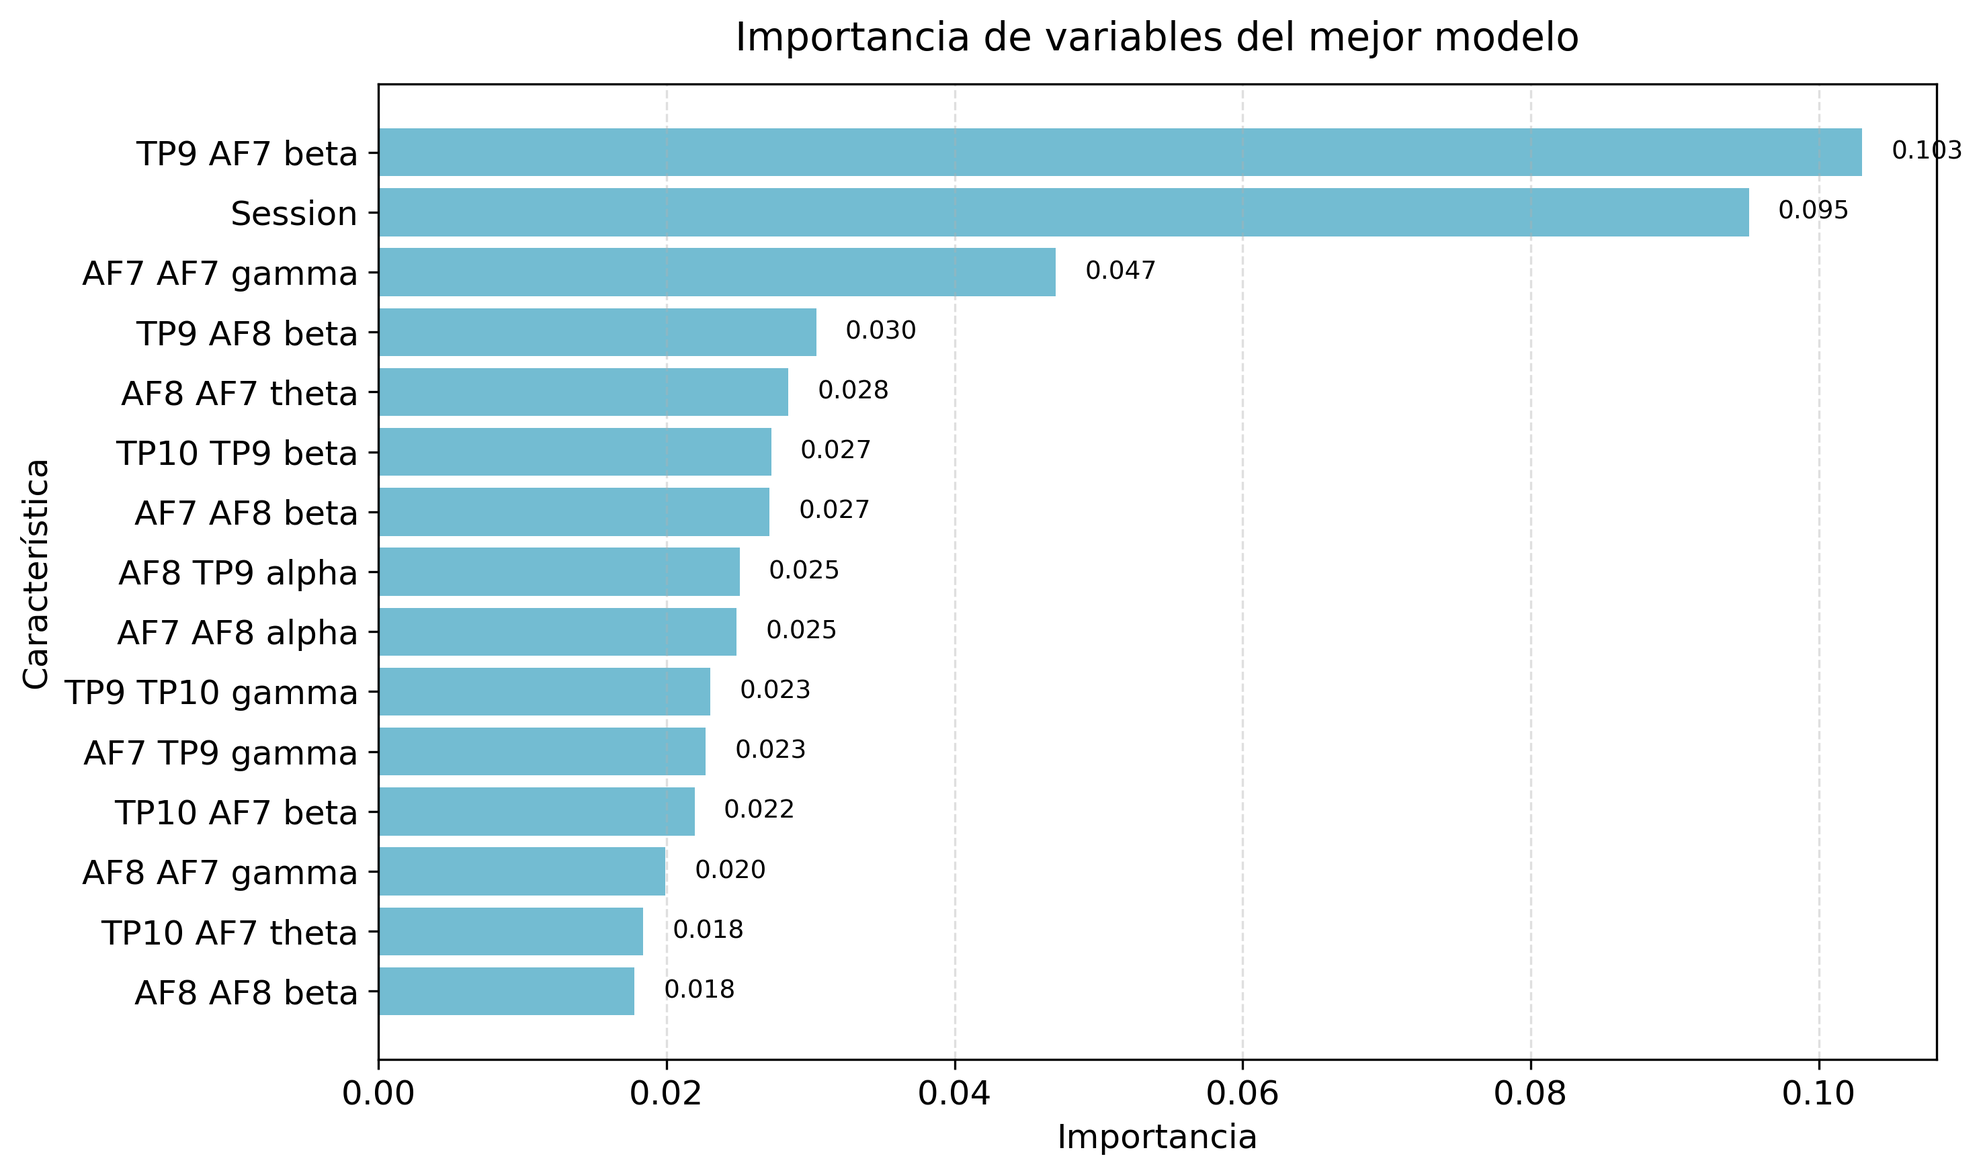
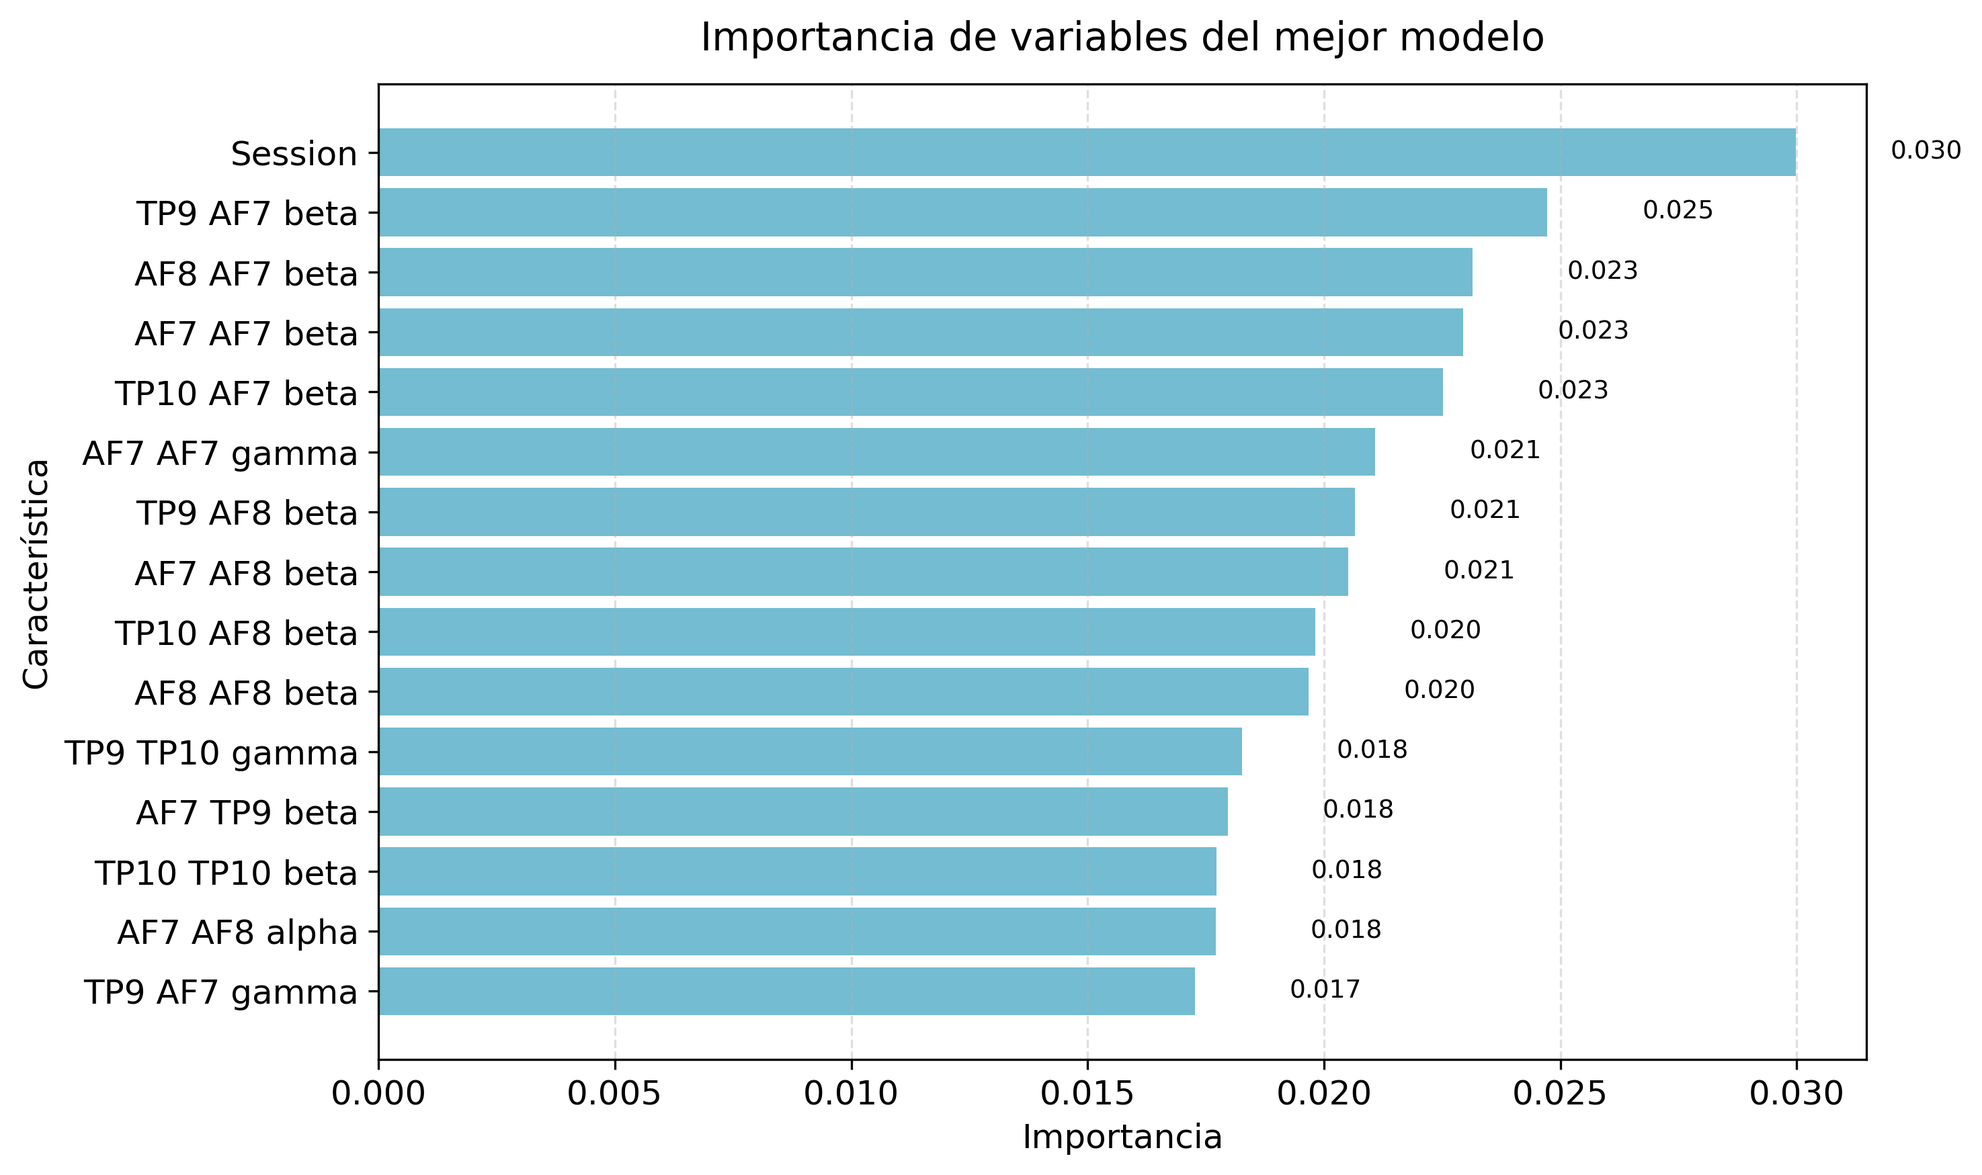
C6 final: integración de resultados de C3 (optimización), actualización de visualizaciones y reporte LaTeX

diff --git a/src/visualization/viz.py b/src/visualization/viz.py
@@ -502,11 +502,26 @@ def save_metrics_table(metrics_df: pd.DataFrame, output_csv: Path):
     metrics_df.to_csv(output_csv, index=False)
 
 
-def write_latex_report(paths: dict, metrics_df: pd.DataFrame):
+def write_latex_report(paths: dict, metrics_df: pd.DataFrame, opt_metrics_df: pd.DataFrame = None):
     """Escribe un reporte LaTeX base"""
     tex_path = paths["base"] / "final_report.tex"
 
     latex_table = metrics_df.to_latex(index=False, float_format="%.3f", escape=True)
+    
+    if opt_metrics_df is not None:
+        opt_metrics_df = opt_metrics_df.copy()
+
+        opt_metrics_df.columns = [
+        col.replace("%", "\\%") for col in opt_metrics_df.columns
+            ]
+
+        latex_opt_table = opt_metrics_df.to_latex(
+            index=False,
+            float_format="%.3f",
+            escape=False  # 👈 importante
+        )
+    else:
+        latex_opt_table = "No disponible"
 
     content = f"""
 \\documentclass[12pt]{{article}}
@@ -584,11 +599,16 @@ Finalmente, en el módulo de visualización e integración (C6), se generaron fi
 En este proyecto, la comparación final se realizó entre los modelos de aprendizaje automático implementados en C4. Los módulos C2 y C5 no fueron incluidos en la tabla comparativa final debido a que, de acuerdo con la naturaleza del problema y las reglas de composición del framework para equipos de este tamaño, C2 no resultó aplicable y C5 fue omitido justificadamente.
 
 \\section{{Resultados del análisis exploratorio (C1)}}
+
+La figura 1 despliega el número de características de sincronía EEG que son significativas en cada sesión, esto en la comparativa entre lectura compartida e individual. De esta forma, podemos observar que la díada 12 exhibe el mayor número de características estadísticamente significativas (51), mientras que la díada 14 tiene la menor cantidad (1). Esto se puede relacionar con la variabilidad inter-sujeto inherente a las señales de EEG, por la cual existen diferencias en el comportamiento observado entre distintas díadas.
+
 \\begin{{figure}}[H]
     \\centering
     \\includegraphics[width=0.8\\textwidth]{{figures/eda/significant_features_by_session.png}}
     \\caption{{Número de características de sincronía EEG estadísticamente significativas por sesión.}}
 \\end{{figure}}
+
+La figura 2 nos brinda una vista general al tamaño de efecto absoluto de las principales características identificadas. Esto nos permite observar que las mayores diferencias entre lectura compartida e individual ocurren: (1) en la banda beta y (2) principalmente en combinaciones de electrodos frontales y lateralizados a la derecha.
 
 \\begin{{figure}}[H]
     \\centering
@@ -596,17 +616,23 @@ En este proyecto, la comparación final se realizó entre los modelos de aprendi
     \\caption{{Principales características EEG ordenadas por magnitud del tamaño de efecto absoluto (Delta de Cliff).}}
 \\end{{figure}}
 
+La figura 3 muestra los valores normalizados de sincronía promedio para cada uno de los estados. Como se puede apreciar, los estados de reposo y lectura individual parecieran mostrar una mayor sincronía que la lectura compartida. Esto se puede deber a dos razones: datos de referencia ruidosos y posibles outliers (casos en los que la sincronía es extrañamente alta en reposo o lectura individual, por ejemplo).
+
 \\begin{{figure}}[H]
     \\centering
     \\includegraphics[width=0.8\\textwidth]{{figures/eda/condition_means.png}}
     \\caption{{Sincronía promedio EEG por condición experimental (línea base, lectura compartida y lectura individual) y por métrica.}}
 \\end{{figure}}
 
+La figura 4 muestra gráficos de caja y bigote de las 3 características más estadísticamente significativas. Aquí una vez más podemos observar que la sincronía en estado de lectura individual es más alta que en lectura compartida.
+
 \\begin{{figure}}[H]
     \\centering
     \\includegraphics[width=0.95\\textwidth]{{figures/eda/boxplot_significant_features.png}}
     \\caption{{Diagramas de caja de las características de sincronía EEG más significativas, comparando lectura compartida e individual.}}
 \\end{{figure}}
+
+La figura 5 despliega un mapa de calor de las correlaciones entre las características EEG con la mayor varianza. Esto nos permite observar que las características de banda frecuencial beta en todas las combinaciones de electrodos se encuentran altamente correlacionadas entre sí; algo similar ocurre para las combinaciones de banda frecuencial gamma que entraron en el grupo observado. Por lo contrario, características de beta se encuentran levemente correlacionadas con aquellas de gamma (y viceversa). Esto tiene sentido al ser que ambas bandas, a pesar de ser distintas entre sí se encuentran contiguas en el espectro, con lo que es posible que tengan cierto nivel de influencia mutua.
 
 \\begin{{figure}}[H]
     \\centering
@@ -615,11 +641,22 @@ En este proyecto, la comparación final se realizó entre los modelos de aprendi
 \\end{{figure}}
 
 \\section{{Resultados de aprendizaje automático (C4)}}
+
+La Figura 6 muestra la comparación del desempeño de 3 algoritmos de aprendizaje automático: Gradient Boosting, Random Forest y Support Vector Machine (SVM) en la tarea de clasificación del tipo de lectura (individual vs compartida), utilizando como métricas la exactitud (accuracy) y el F1 score macro. 
+
+Se puede observar que el modelo  Random Forest presenta el mejor desempeño global, alcanzando valores de 0.70 tanto en exactitud como en F1 macro, seguido muy de cerca por Gradient Boosting con 0.68 en ambas métricas. Por otro lado, SVM muestra un desempeño ligeramente inferior con valores de 0.64
+
+La similitud entre accuracy y F1 macro en todos los modelos sugiere un balance entre clases, lo cual es relevante dada la naturaleza del estudio. En conjunto, estos resultados indican que los modelos basados en árboles, particularmente Random Forest, captan de manera más efectiva los patrones derivados de las características EEG en comparación con SVM.
+
 \\begin{{figure}}[H]
     \\centering
     \\includegraphics[width=0.8\\textwidth]{{figures/models/model_comparison.png}}
     \\caption{{Comparación del desempeño de los modelos utilizando exactitud y F1 macro.}}
 \\end{{figure}}
+
+La Figura 7 muestra la importancia relativa de las variables extraídas del EEG en el modelo con mejor desempeño (Gradient Boosting). Las características corresponden a combinaciones de canales (por ejemplo, AF7, TP9, etc) y bandas de frecuencia (alpha, beta, gamma y theta), así como a la variable de sesión experimental. 
+
+Se identifica que la característica más relevante es la actividad beta entre los canales TP9 Y AF7. Así mismo, destacan interacciones en la banda gamma (AF7-AF7) y la banda beta  (TP9-AF8), lo que podría reflejar procesos cognitivos asociados a la lectura como la atención o el procesamiento lingüístico. 
 
 \\begin{{figure}}[H]
     \\centering
@@ -628,6 +665,22 @@ En este proyecto, la comparación final se realizó entre los modelos de aprendi
 \\end{{figure}}
 
 \\section{{Resultados de optimización (C3)}}
+
+La Figura muestra la evolución del error durante el proceso de optimización de hiperparámetros. Se observa una disminución progresiva del error, indicando la convergencia del algoritmo hacia una mejor configuración del modelo.
+
+\\begin{{figure}}[H]
+    \\centering
+    \\includegraphics[width=0.8\\textwidth]{{figures/optimization/curva_mejora.png}}
+    \\caption{{Curva de convergencia del proceso de optimización de hiperparámetros.}}
+\\end{{figure}}
+
+Adicionalmente, la Tabla presenta el desempeño final del modelo optimizado.
+
+\\begin{{table}}[H]
+\\centering
+\\caption{{Resultados del modelo optimizado}}
+{latex_opt_table}
+\\end{{table}}
 
 \\section{{Tabla comparativa de modelos}}
 \\begin{{table}}[H]
@@ -638,7 +691,11 @@ En este proyecto, la comparación final se realizó entre los modelos de aprendi
 
 \\section{{Conclusiones}}
 
-Texto
+En este proyecto se desarrolló un pipeline integral para el análisis de sincronía cerebral a partir de señales EEG, abarcando desde el procesamiento de datos hasta la generación de modelos predictivos y visualizaciones interpretables. Los resultados obtenidos muestran que las características de sincronía permiten distinguir entre condiciones de lectura individual y compartida, evidenciando su potencial como indicadores de actividad cognitiva.
+
+Asimismo, la comparación entre modelos de aprendizaje automático evidenció que el modelo Random Forest presenta el mejor desempeño global, superando ligeramente a Gradient Boosting y mostrando una mayor capacidad para capturar los patrones presentes en los datos en términos de exactitud y F1-score.
+
+Adicionalmente, la etapa de optimización de hiperparámetros permitió refinar el desempeño del modelo seleccionado mediante la exploración sistemática del espacio de parámetros. La curva de convergencia evidenció una disminución progresiva del error, indicando que el algoritmo logró acercarse a una configuración estable. Sin embargo, la evaluación final mostró que la mejora en desempeño fue marginal, lo cual sugiere que el modelo base ya se encontraba cercano a un óptimo local.
 
 \\end{{document}}
 """
@@ -656,6 +713,19 @@ def generate_report():
 
     metrics = load_pickle("src/C4/outputs/all_metrics.pkl")
     best_model = load_pickle("src/C4/outputs/best_model.pkl")
+
+    c3_fig_path = Path("src/C3/outputs/curva_mejora.png")
+    c3_table_path = Path("src/C3/outputs/final_optimization_metrics.csv")
+
+    if c3_fig_path.exists():
+        import shutil
+        dest = paths["optimization"] / "curva_mejora.png"
+        shutil.copy(c3_fig_path, dest)
+
+    if c3_table_path.exists():
+        opt_metrics_df = pd.read_csv(c3_table_path)
+    else:
+        opt_metrics_df = None
 
     assert isinstance(eda_df, pd.DataFrame), "eda_report.pkl debe ser DataFrame"
     assert isinstance(feat_df, pd.DataFrame), "feat_mat.pkl debe ser DataFrame"
@@ -705,7 +775,8 @@ def generate_report():
         paths["base"] / "model_comparison.csv"
     )
 
-    write_latex_report(paths, metrics_df)
+    
+    write_latex_report(paths, metrics_df, opt_metrics_df)
 
     print("C6 ejecutado correctamente.")
     print(f"Reporte LaTeX: {paths['base'] / 'final_report.tex'}")

diff --git a/reports/final_report.tex b/reports/final_report.tex
@@ -74,11 +74,16 @@ Finalmente, en el módulo de visualización e integración (C6), se generaron fi
 En este proyecto, la comparación final se realizó entre los modelos de aprendizaje automático implementados en C4. Los módulos C2 y C5 no fueron incluidos en la tabla comparativa final debido a que, de acuerdo con la naturaleza del problema y las reglas de composición del framework para equipos de este tamaño, C2 no resultó aplicable y C5 fue omitido justificadamente.
 
 \section{Resultados del análisis exploratorio (C1)}
+
+La figura 1 despliega el número de características de sincronía EEG que son significativas en cada sesión, esto en la comparativa entre lectura compartida e individual. De esta forma, podemos observar que la díada 12 exhibe el mayor número de características estadísticamente significativas (51), mientras que la díada 14 tiene la menor cantidad (1). Esto se puede relacionar con la variabilidad inter-sujeto inherente a las señales de EEG, por la cual existen diferencias en el comportamiento observado entre distintas díadas.
+
 \begin{figure}[H]
     \centering
     \includegraphics[width=0.8\textwidth]{figures/eda/significant_features_by_session.png}
     \caption{Número de características de sincronía EEG estadísticamente significativas por sesión.}
 \end{figure}
+
+La figura 2 nos brinda una vista general al tamaño de efecto absoluto de las principales características identificadas. Esto nos permite observar que las mayores diferencias entre lectura compartida e individual ocurren: (1) en la banda beta y (2) principalmente en combinaciones de electrodos frontales y lateralizados a la derecha.
 
 \begin{figure}[H]
     \centering
@@ -86,17 +91,23 @@ En este proyecto, la comparación final se realizó entre los modelos de aprendi
     \caption{Principales características EEG ordenadas por magnitud del tamaño de efecto absoluto (Delta de Cliff).}
 \end{figure}
 
+La figura 3 muestra los valores normalizados de sincronía promedio para cada uno de los estados. Como se puede apreciar, los estados de reposo y lectura individual parecieran mostrar una mayor sincronía que la lectura compartida. Esto se puede deber a dos razones: datos de referencia ruidosos y posibles outliers (casos en los que la sincronía es extrañamente alta en reposo o lectura individual, por ejemplo).
+
 \begin{figure}[H]
     \centering
     \includegraphics[width=0.8\textwidth]{figures/eda/condition_means.png}
     \caption{Sincronía promedio EEG por condición experimental (línea base, lectura compartida y lectura individual) y por métrica.}
 \end{figure}
 
+La figura 4 muestra gráficos de caja y bigote de las 3 características más estadísticamente significativas. Aquí una vez más podemos observar que la sincronía en estado de lectura individual es más alta que en lectura compartida.
+
 \begin{figure}[H]
     \centering
     \includegraphics[width=0.95\textwidth]{figures/eda/boxplot_significant_features.png}
     \caption{Diagramas de caja de las características de sincronía EEG más significativas, comparando lectura compartida e individual.}
 \end{figure}
+
+La figura 5 despliega un mapa de calor de las correlaciones entre las características EEG con la mayor varianza. Esto nos permite observar que las características de banda frecuencial beta en todas las combinaciones de electrodos se encuentran altamente correlacionadas entre sí; algo similar ocurre para las combinaciones de banda frecuencial gamma que entraron en el grupo observado. Por lo contrario, características de beta se encuentran levemente correlacionadas con aquellas de gamma (y viceversa). Esto tiene sentido al ser que ambas bandas, a pesar de ser distintas entre sí se encuentran contiguas en el espectro, con lo que es posible que tengan cierto nivel de influencia mutua.
 
 \begin{figure}[H]
     \centering
@@ -105,11 +116,22 @@ En este proyecto, la comparación final se realizó entre los modelos de aprendi
 \end{figure}
 
 \section{Resultados de aprendizaje automático (C4)}
+
+La Figura 6 muestra la comparación del desempeño de 3 algoritmos de aprendizaje automático: Gradient Boosting, Random Forest y Support Vector Machine (SVM) en la tarea de clasificación del tipo de lectura (individual vs compartida), utilizando como métricas la exactitud (accuracy) y el F1 score macro. 
+
+Se puede observar que el modelo  Random Forest presenta el mejor desempeño global, alcanzando valores de 0.70 tanto en exactitud como en F1 macro, seguido muy de cerca por Gradient Boosting con 0.68 en ambas métricas. Por otro lado, SVM muestra un desempeño ligeramente inferior con valores de 0.64
+
+La similitud entre accuracy y F1 macro en todos los modelos sugiere un balance entre clases, lo cual es relevante dada la naturaleza del estudio. En conjunto, estos resultados indican que los modelos basados en árboles, particularmente Random Forest, captan de manera más efectiva los patrones derivados de las características EEG en comparación con SVM.
+
 \begin{figure}[H]
     \centering
     \includegraphics[width=0.8\textwidth]{figures/models/model_comparison.png}
     \caption{Comparación del desempeño de los modelos utilizando exactitud y F1 macro.}
 \end{figure}
+
+La Figura 7 muestra la importancia relativa de las variables extraídas del EEG en el modelo con mejor desempeño (Gradient Boosting). Las características corresponden a combinaciones de canales (por ejemplo, AF7, TP9, etc) y bandas de frecuencia (alpha, beta, gamma y theta), así como a la variable de sesión experimental. 
+
+Se identifica que la característica más relevante es la actividad beta entre los canales TP9 Y AF7. Así mismo, destacan interacciones en la banda gamma (AF7-AF7) y la banda beta  (TP9-AF8), lo que podría reflejar procesos cognitivos asociados a la lectura como la atención o el procesamiento lingüístico. 
 
 \begin{figure}[H]
     \centering
@@ -119,6 +141,29 @@ En este proyecto, la comparación final se realizó entre los modelos de aprendi
 
 \section{Resultados de optimización (C3)}
 
+La Figura muestra la evolución del error durante el proceso de optimización de hiperparámetros. Se observa una disminución progresiva del error, indicando la convergencia del algoritmo hacia una mejor configuración del modelo.
+
+\begin{figure}[H]
+    \centering
+    \includegraphics[width=0.8\textwidth]{figures/optimization/curva_mejora.png}
+    \caption{Curva de convergencia del proceso de optimización de hiperparámetros.}
+\end{figure}
+
+Adicionalmente, la Tabla presenta el desempeño final del modelo optimizado.
+
+\begin{table}[H]
+\centering
+\caption{Resultados del modelo optimizado}
+\begin{tabular}{rr}
+\toprule
+Accuracy final optimizado & Mejora neta (\%) \\
+\midrule
+0.699 & -0.280 \\
+\bottomrule
+\end{tabular}
+
+\end{table}
+
 \section{Tabla comparativa de modelos}
 \begin{table}[H]
 \centering
@@ -127,8 +172,8 @@ En este proyecto, la comparación final se realizó entre los modelos de aprendi
 \toprule
 Modelo & Exactitud & Precisión & F1 (macro) & F1 (ponderado) \\
 \midrule
-GradientBoosting & 0.683 & 0.683 & 0.683 & 0.683 \\
-RandomForest & 0.674 & 0.674 & 0.672 & 0.673 \\
+RandomForest & 0.702 & 0.702 & 0.701 & 0.701 \\
+GradientBoosting & 0.681 & 0.681 & 0.680 & 0.680 \\
 SVM & 0.639 & 0.638 & 0.638 & 0.638 \\
 \bottomrule
 \end{tabular}
@@ -137,6 +182,10 @@ SVM & 0.639 & 0.638 & 0.638 & 0.638 \\
 
 \section{Conclusiones}
 
-Texto
+En este proyecto se desarrolló un pipeline integral para el análisis de sincronía cerebral a partir de señales EEG, abarcando desde el procesamiento de datos hasta la generación de modelos predictivos y visualizaciones interpretables. Los resultados obtenidos muestran que las características de sincronía permiten distinguir entre condiciones de lectura individual y compartida, evidenciando su potencial como indicadores de actividad cognitiva.
+
+Asimismo, la comparación entre modelos de aprendizaje automático evidenció que el modelo Random Forest presenta el mejor desempeño global, superando ligeramente a Gradient Boosting y mostrando una mayor capacidad para capturar los patrones presentes en los datos en términos de exactitud y F1-score.
+
+Adicionalmente, la etapa de optimización de hiperparámetros permitió refinar el desempeño del modelo seleccionado mediante la exploración sistemática del espacio de parámetros. La curva de convergencia evidenció una disminución progresiva del error, indicando que el algoritmo logró acercarse a una configuración estable. Sin embargo, la evaluación final mostró que la mejora en desempeño fue marginal, lo cual sugiere que el modelo base ya se encontraba cercano a un óptimo local.
 
 \end{document}

diff --git a/scripts/main.py b/scripts/main.py
@@ -3,6 +3,7 @@ from src.C4.train_ml_models import run_ml
 from src.C3.hyperparameter_search import hyperparameter_search
 from sklearn.metrics import accuracy_score, f1_score
 import os
+import pickle
 
 cwd = os.getcwd()
 
@@ -43,6 +44,12 @@ dict_final_viz = {
     'f1_mejorado': f1_final,
     'incremento': acc_final - acc_base
 }
+
+output_dir = os.path.join(cwd, "src", "C3", "outputs")
+os.makedirs(output_dir, exist_ok=True)
+
+with open(os.path.join(output_dir, "final_optimization_metrics.pkl"), "wb") as f:
+    pickle.dump(dict_final_viz, f)
 
 ### ============= 5. VISUALIZATION ============= ###
 # Aquí es donde Daisy (C6) tomaría el control
